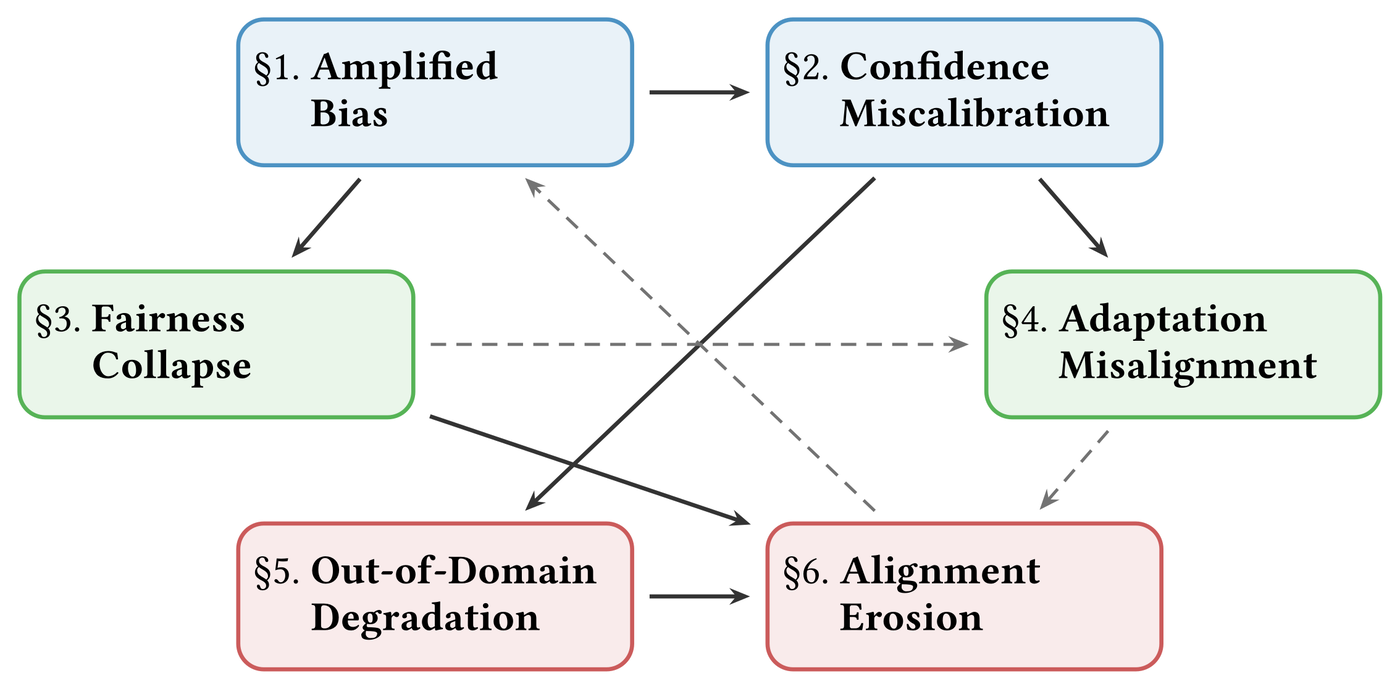
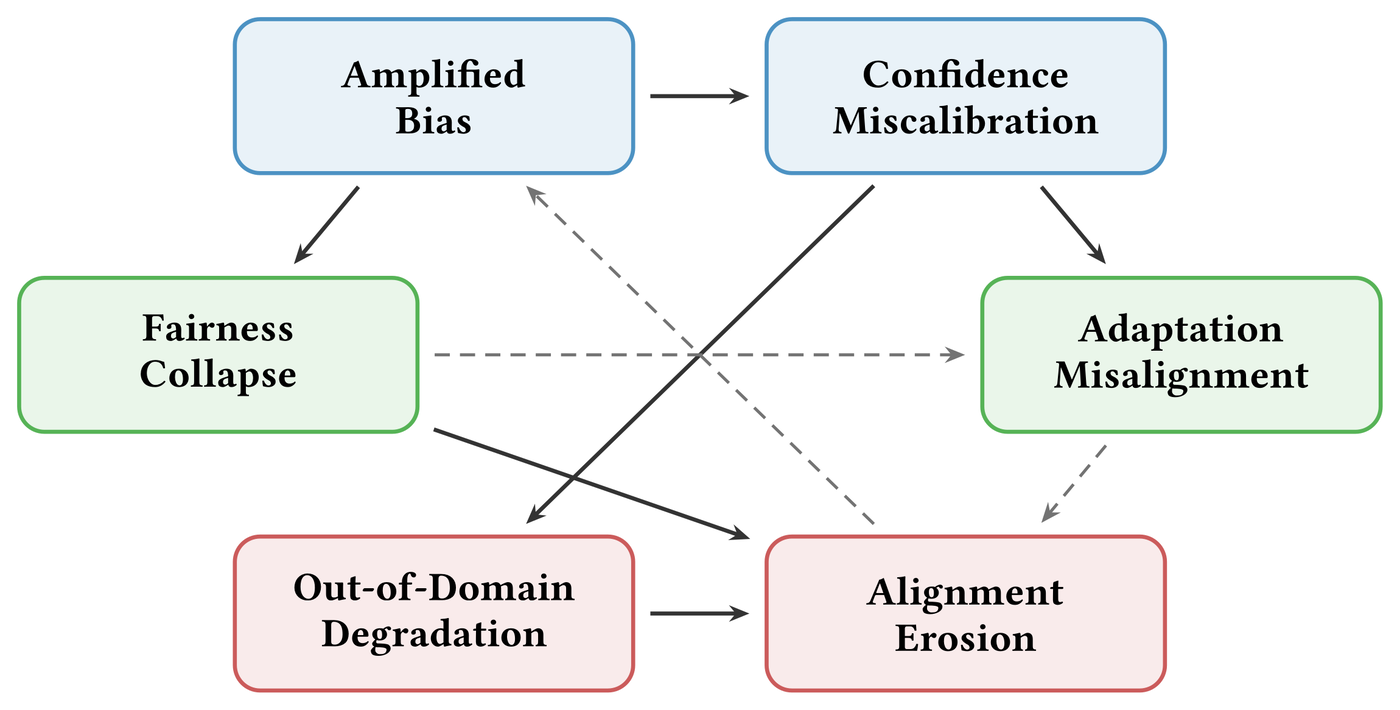
Update README.md to enhance the taxonomy of silent failures with a structured table and clarify figure description

diff --git a/README.md b/README.md
@@ -49,7 +49,24 @@ The key word is **silent**: the failure is not only hard to *fix* — it is hard
   <img src="assets/silent-failures-taxonomy.png" alt="Taxonomy of six silent failures in FedFMP grouped by causal layer: amplified bias and confidence miscalibration at the data level, fairness collapse and adaptation misalignment at the model level, and out-of-domain degradation and alignment erosion at the system level, with arrows indicating conceptual influence among the failure modes." width="640">
 </p>
 
-<p align="center"><em><strong>Figure 1.</strong> Taxonomy of six &ldquo;silent failures&rdquo; in FedFMP, grouped by causal layer (data &rarr; model &rarr; system). Solid arrows denote primary conceptual links; dashed arrows denote indirect feedback pathways.</em></p>
+<p align="center"><em><strong>Figure 1.</strong> Taxonomy of six &ldquo;silent failures&rdquo; in FedFMP, grouped by causal layer.</em></p>
+
+<table align="center">
+  <tr>
+    <td>🟦 <strong>Data-level</strong></td>
+    <td>amplified bias · confidence miscalibration</td>
+  </tr>
+  <tr>
+    <td>🟩 <strong>Model-level</strong></td>
+    <td>fairness collapse · adaptation misalignment</td>
+  </tr>
+  <tr>
+    <td>🟥 <strong>System-level</strong></td>
+    <td>out-of-domain degradation · alignment erosion</td>
+  </tr>
+</table>
+
+<p align="center"><sub><strong>Arrows:</strong> solid (&rarr;) = primary conceptual link &nbsp;·&nbsp; dashed (⇢) = indirect feedback pathway &nbsp;—&nbsp; conceptual influence, not strict guarantees.</sub></p>
 
 A taxonomy organized by causal layer (data → model → system):
 